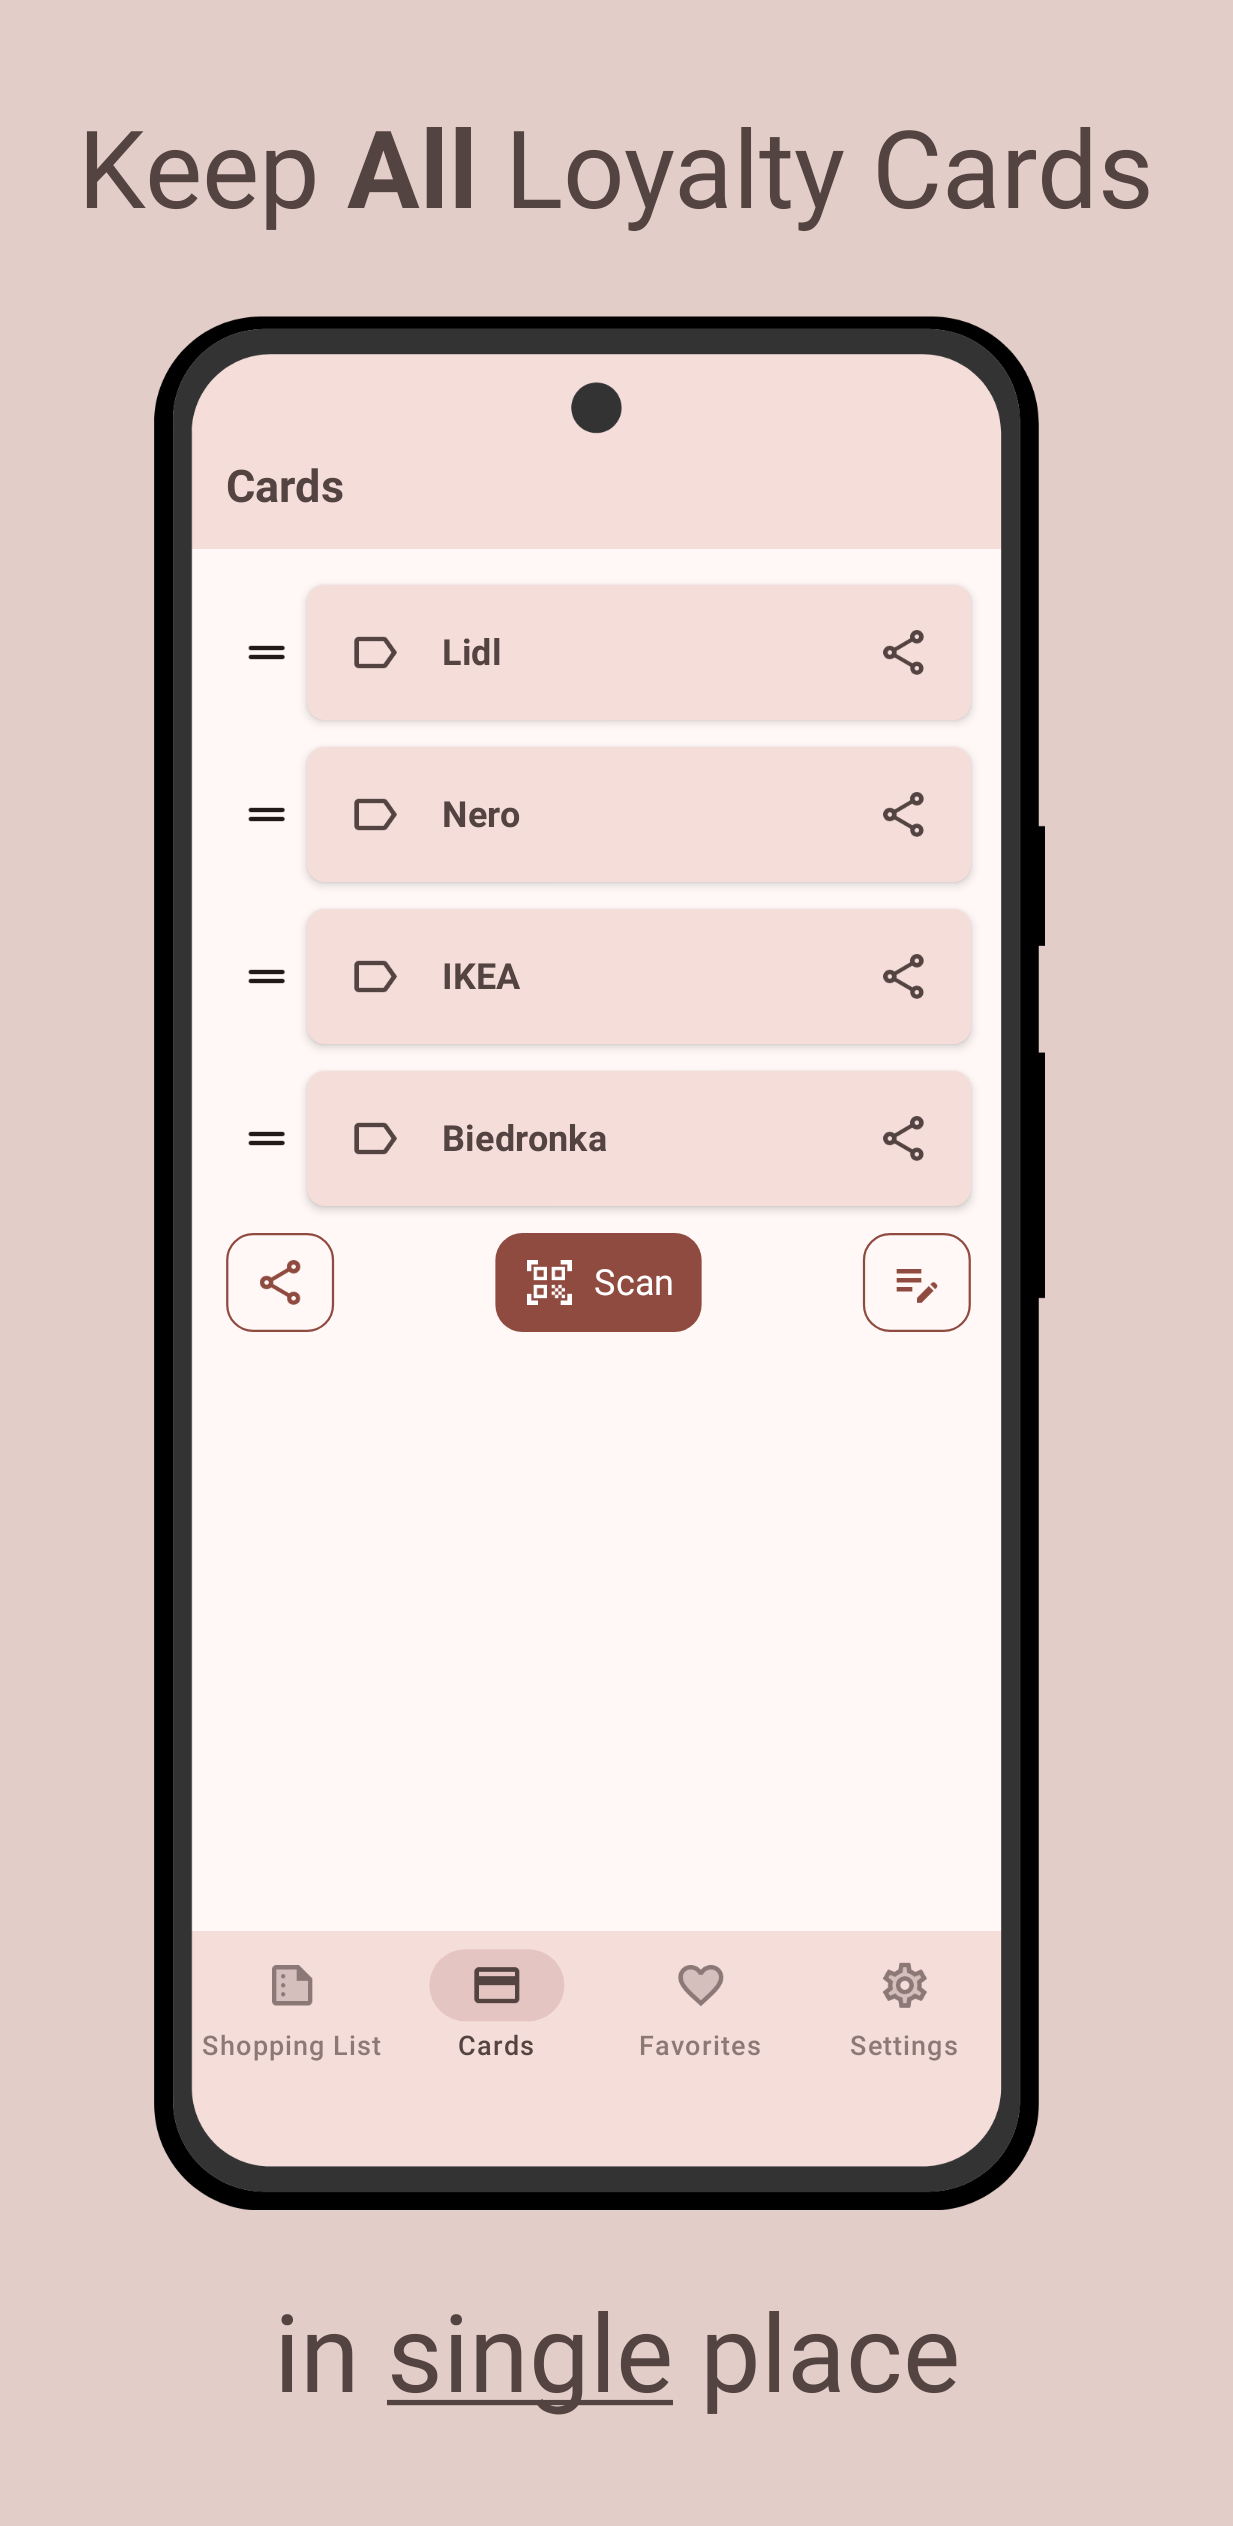
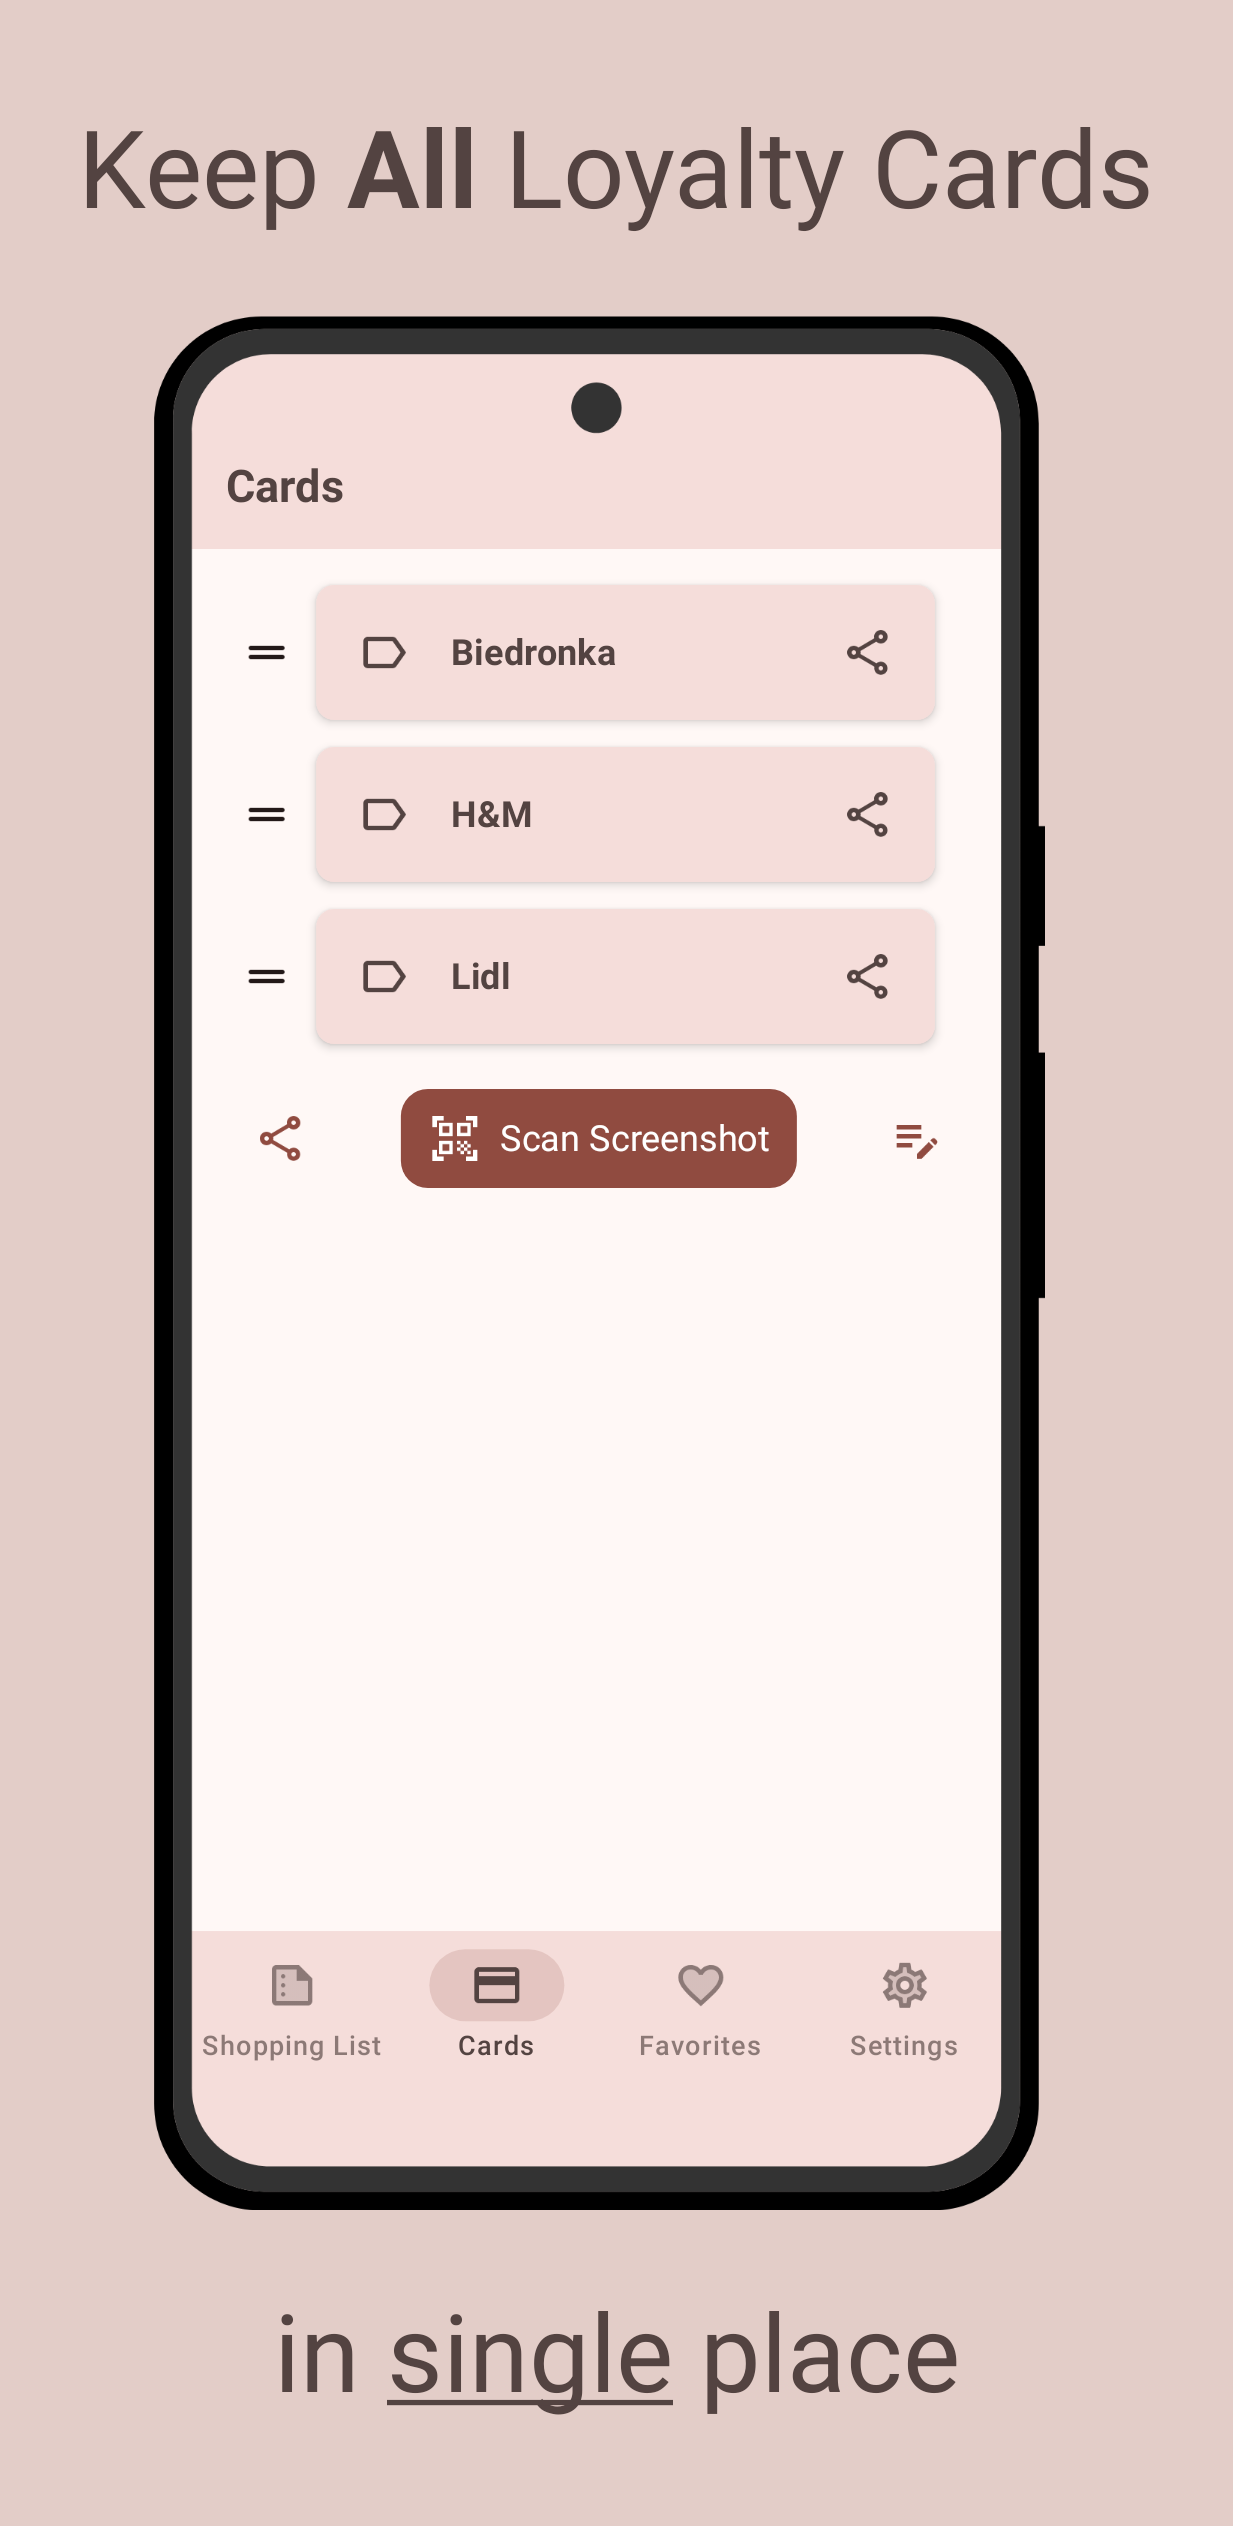
update screenshots

diff --git a/composeApp/src/androidUnitTest/kotlin/in/procyk/bring/test/LoyaltyCardsScreenScreenshotTest.kt b/composeApp/src/androidUnitTest/kotlin/in/procyk/bring/test/LoyaltyCardsScreenScreenshotTest.kt
@@ -30,7 +30,7 @@ internal class LoyaltyCardsScreenScreenshotTest : BringAppCreateScreenshotTest()
         config = {
             copy(
                 themeColor = Color.Red.toArgb(),
-                loyaltyCards = "ded26ce9-a424-4888-a87c-cb0c13f0f125;450a3662-c8bb-4da9-8fee-13f71480ceaa;656bcca2-2856-42b5-ae9f-dfdf3b209005;cd048d2e-3c1c-4c26-b7af-1f2ab02330ad"
+                loyaltyCards = "76798ee6-6385-4bc6-964a-e6a8a8938981;6022262e-b31a-450c-a83b-6c9f93bfa529;8441fed0-b99b-49e9-9cb7-b7e9effb8774"
                     .split(';')
                     .mapIndexed { idx, uuid ->
                         LoyaltyCard(
@@ -71,6 +71,6 @@ internal class LoyaltyCardsScreenScreenshotTest : BringAppCreateScreenshotTest()
     ) {
         navigateLoyaltyCardsScreen()
 
-        waitUntilNodeCount("loyalty-card", 4)
+        waitUntilNodeCount("loyalty-card", 3)
     }
 }
